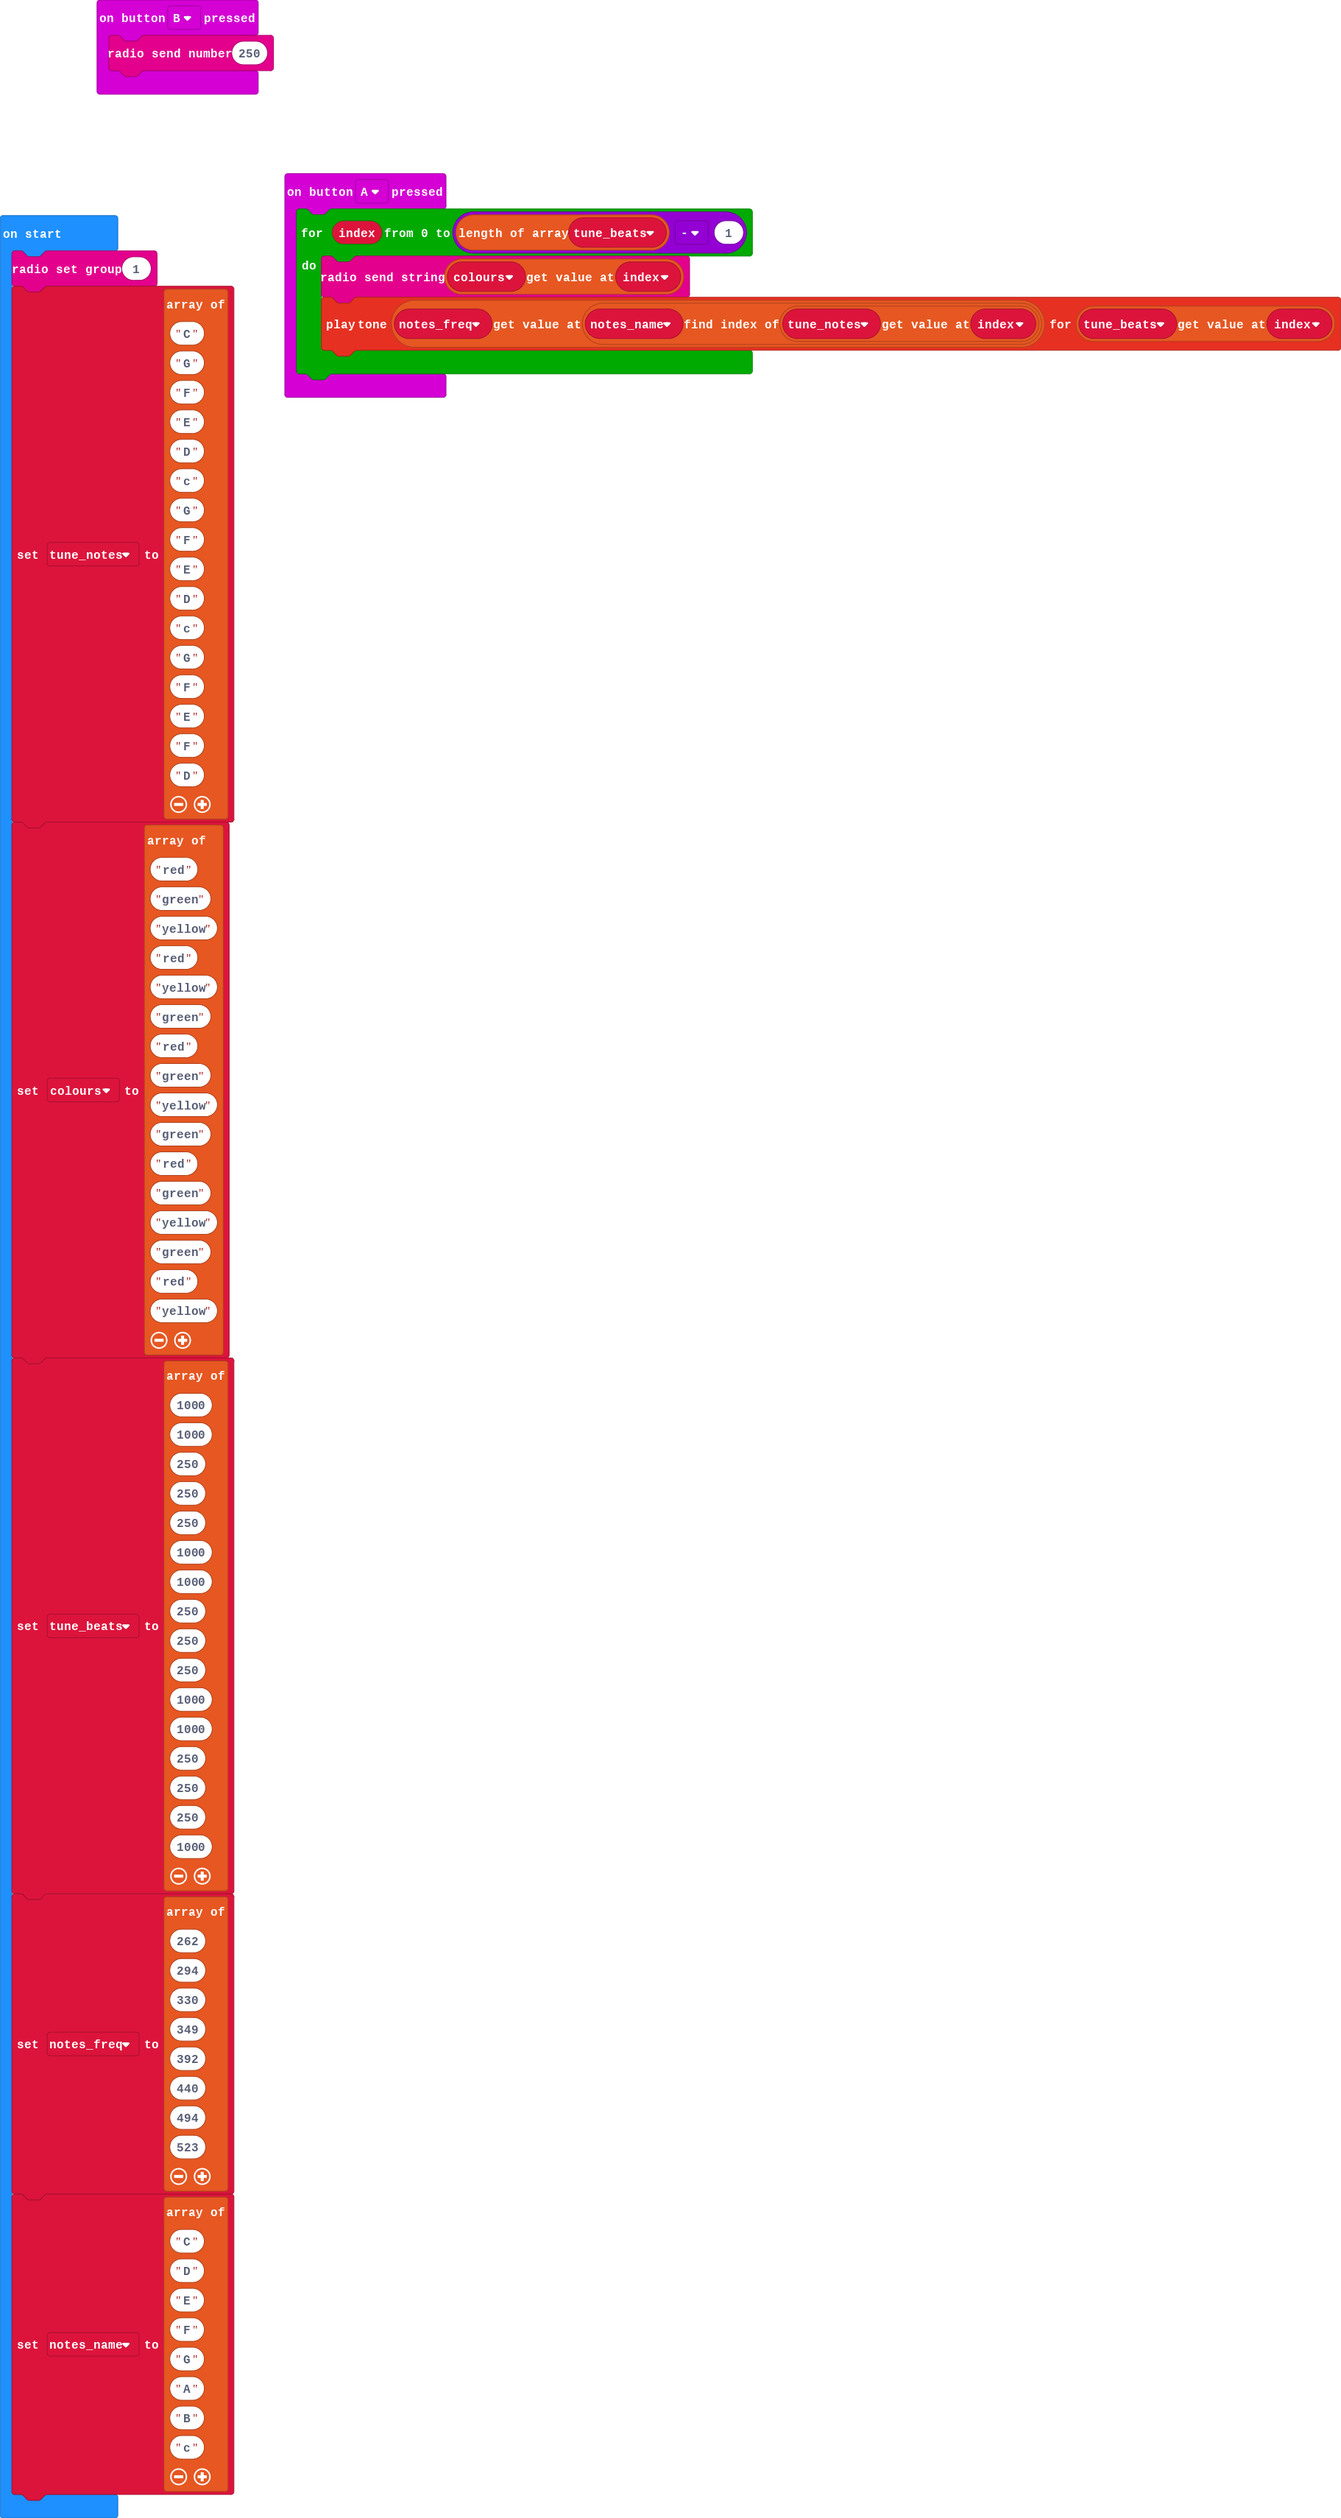
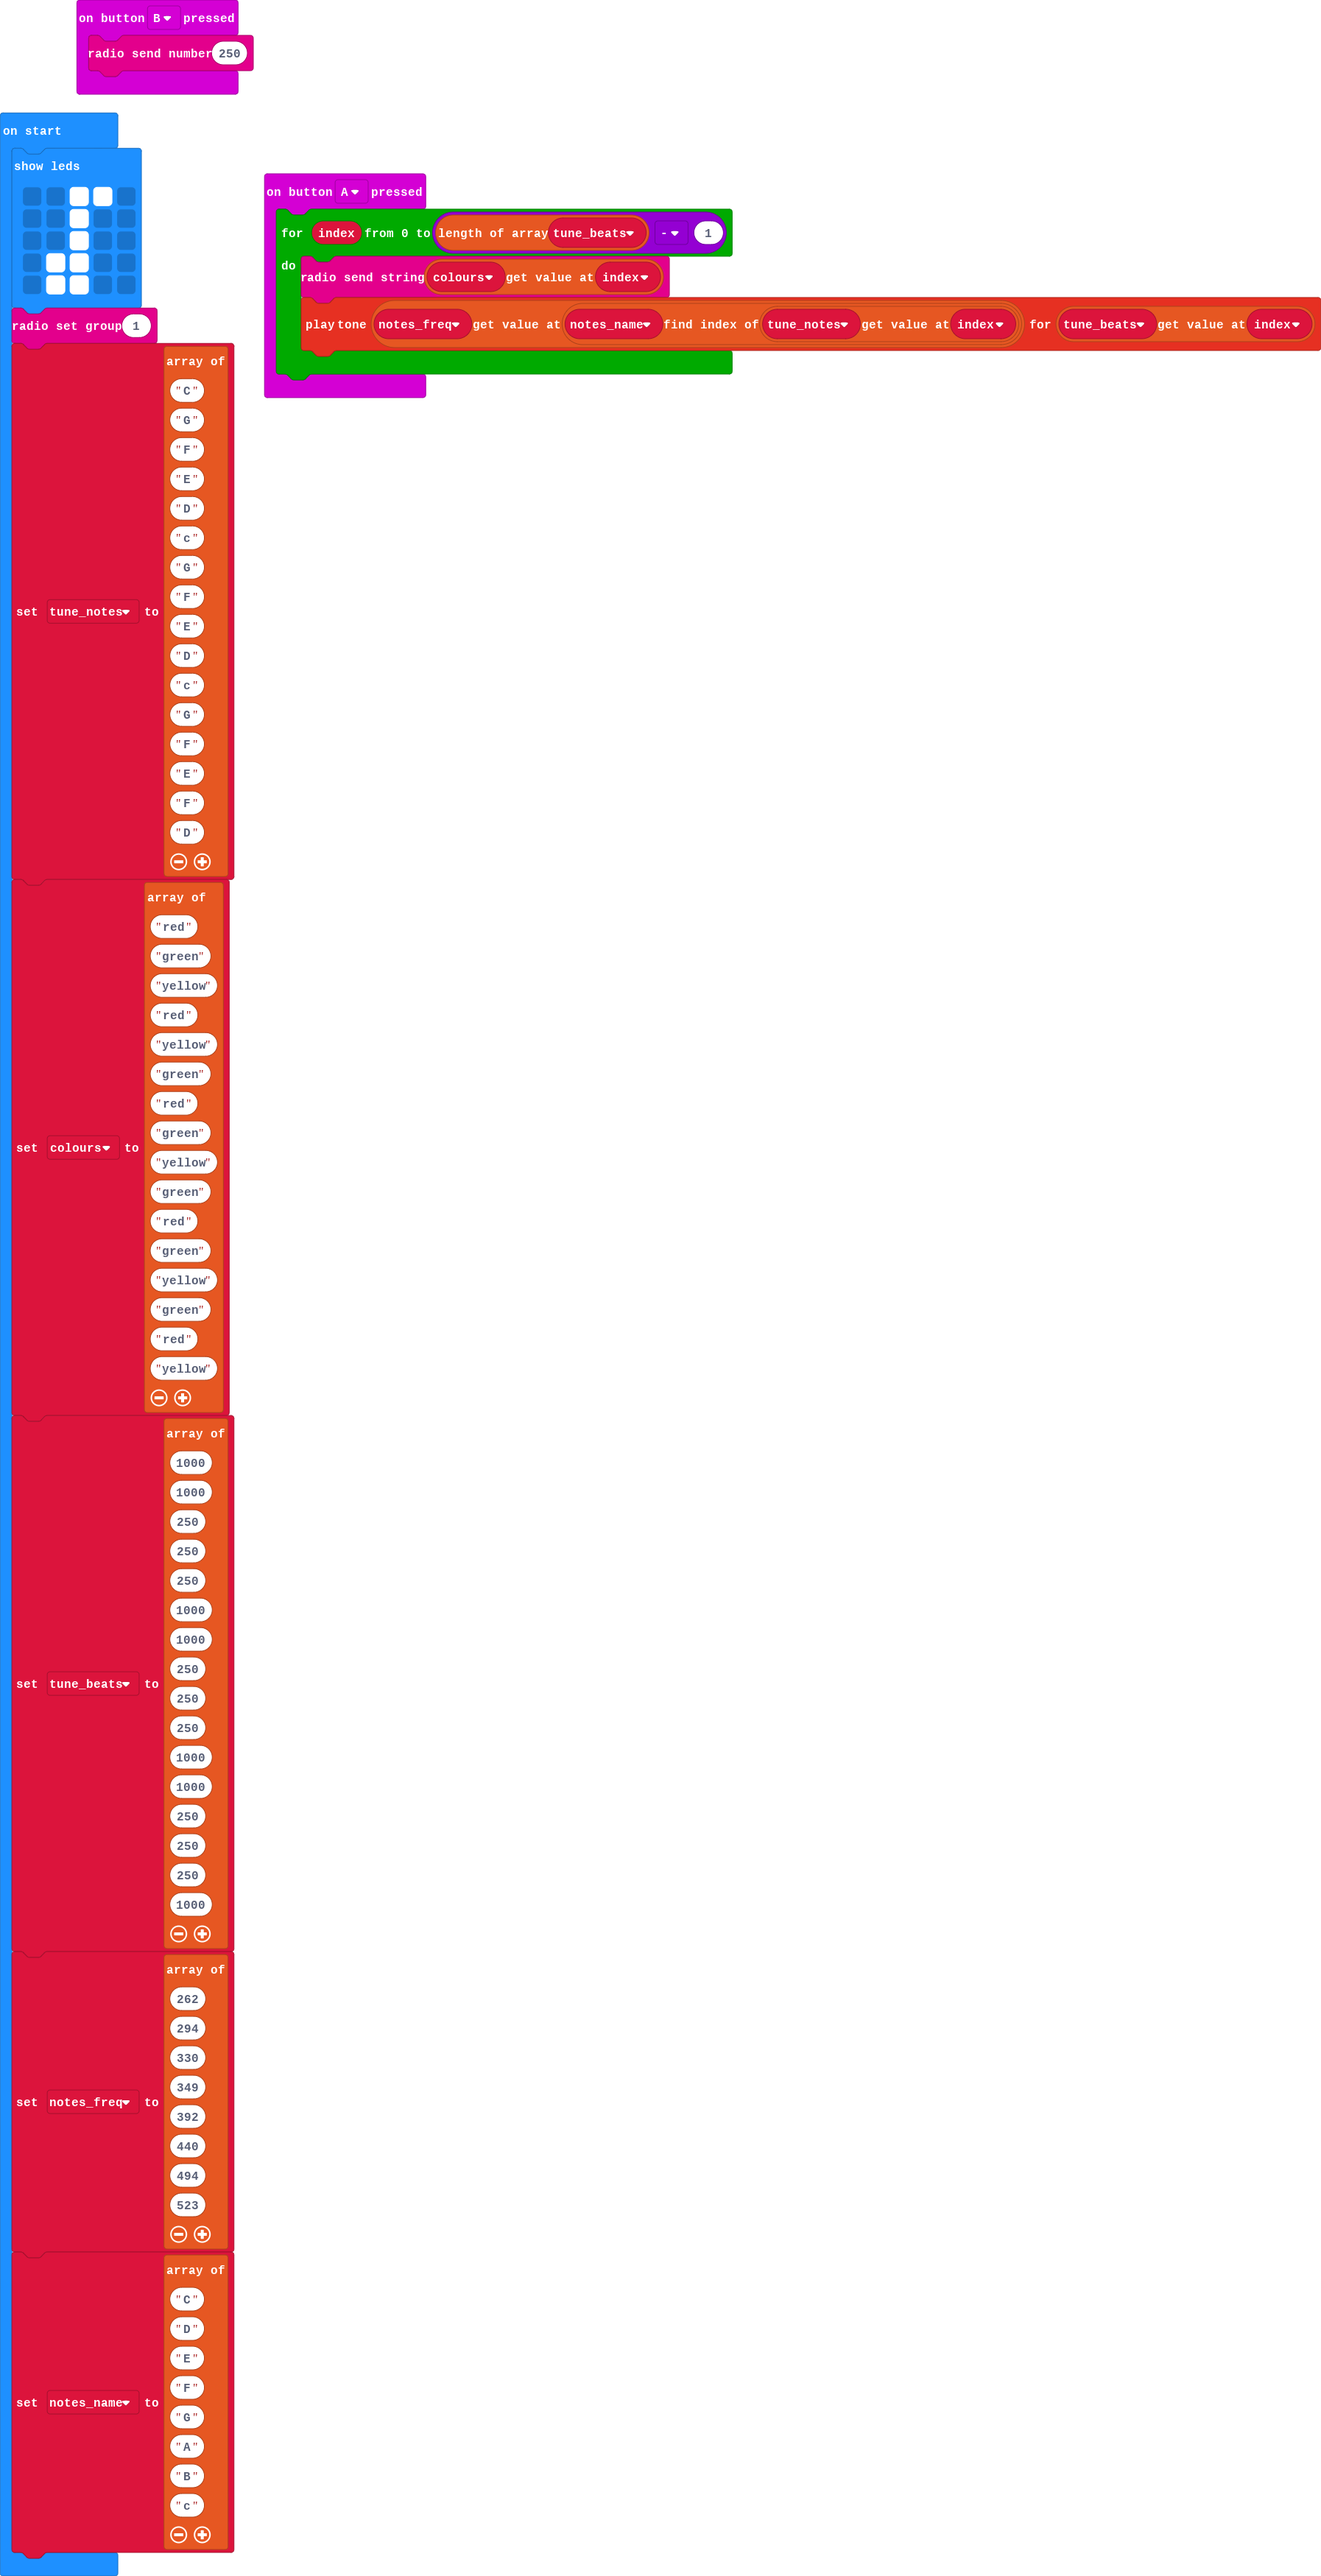
Update main.blocks, main.ts

Changed region(s): [[0.0, 0.0, 1.0, 0.9918]]

diff --git a/main.ts b/main.ts
@@ -12,6 +12,13 @@ let notes_freq: number[] = []
 let tune_beats: number[] = []
 let colours: string[] = []
 let tune_notes: string[] = []
+basic.showLeds(`
+    . . # # .
+    . . # . .
+    . . # . .
+    . # # . .
+    . # # . .
+    `)
 radio.setGroup(1)
 tune_notes = ["C", "G", "F", "E", "D", "c", "G", "F", "E", "D", "c", "G", "F", "E", "F", "D"]
 colours = ["red", "green", "yellow", "red", "yellow", "green", "red", "green", "yellow", "green", "red", "green", "yellow", "green", "red", "yellow"]
